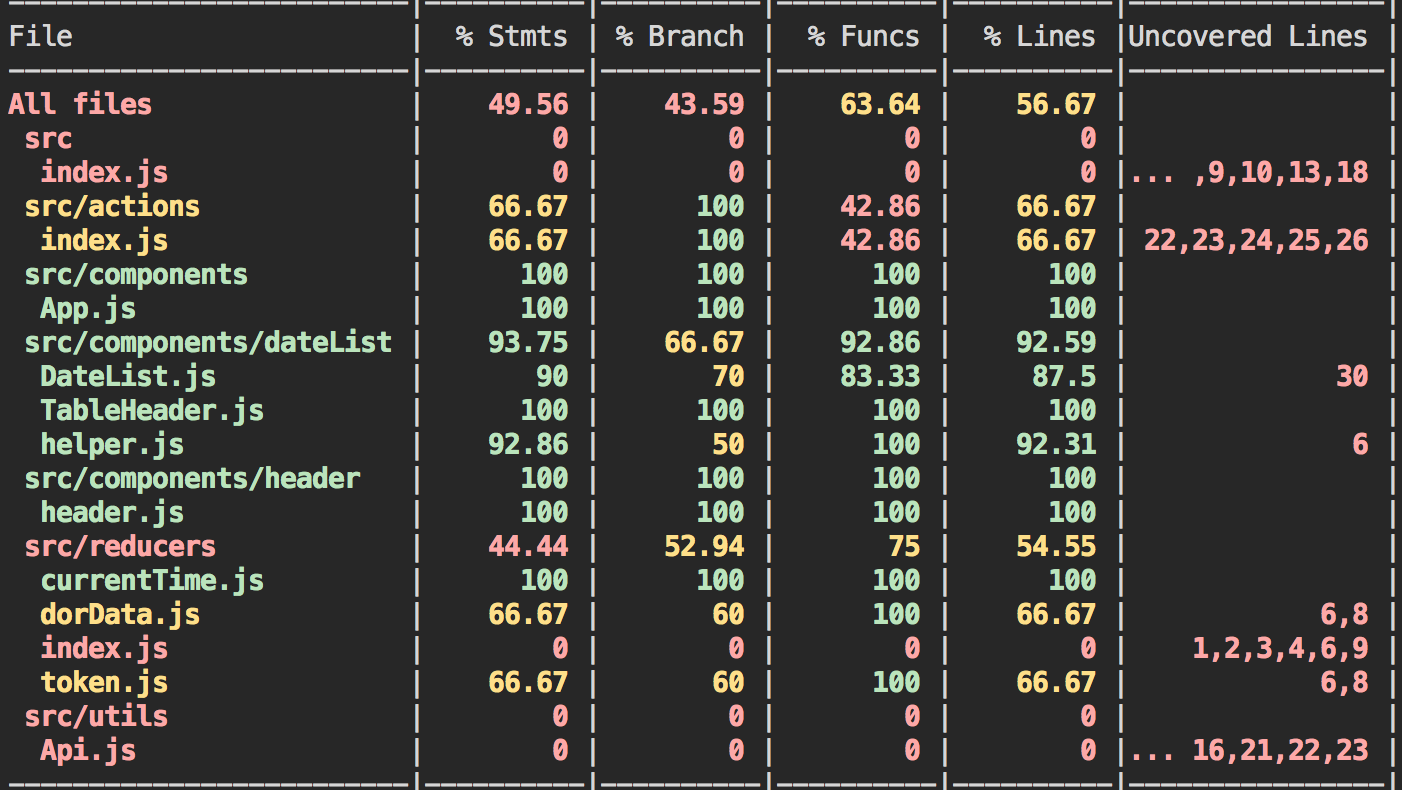
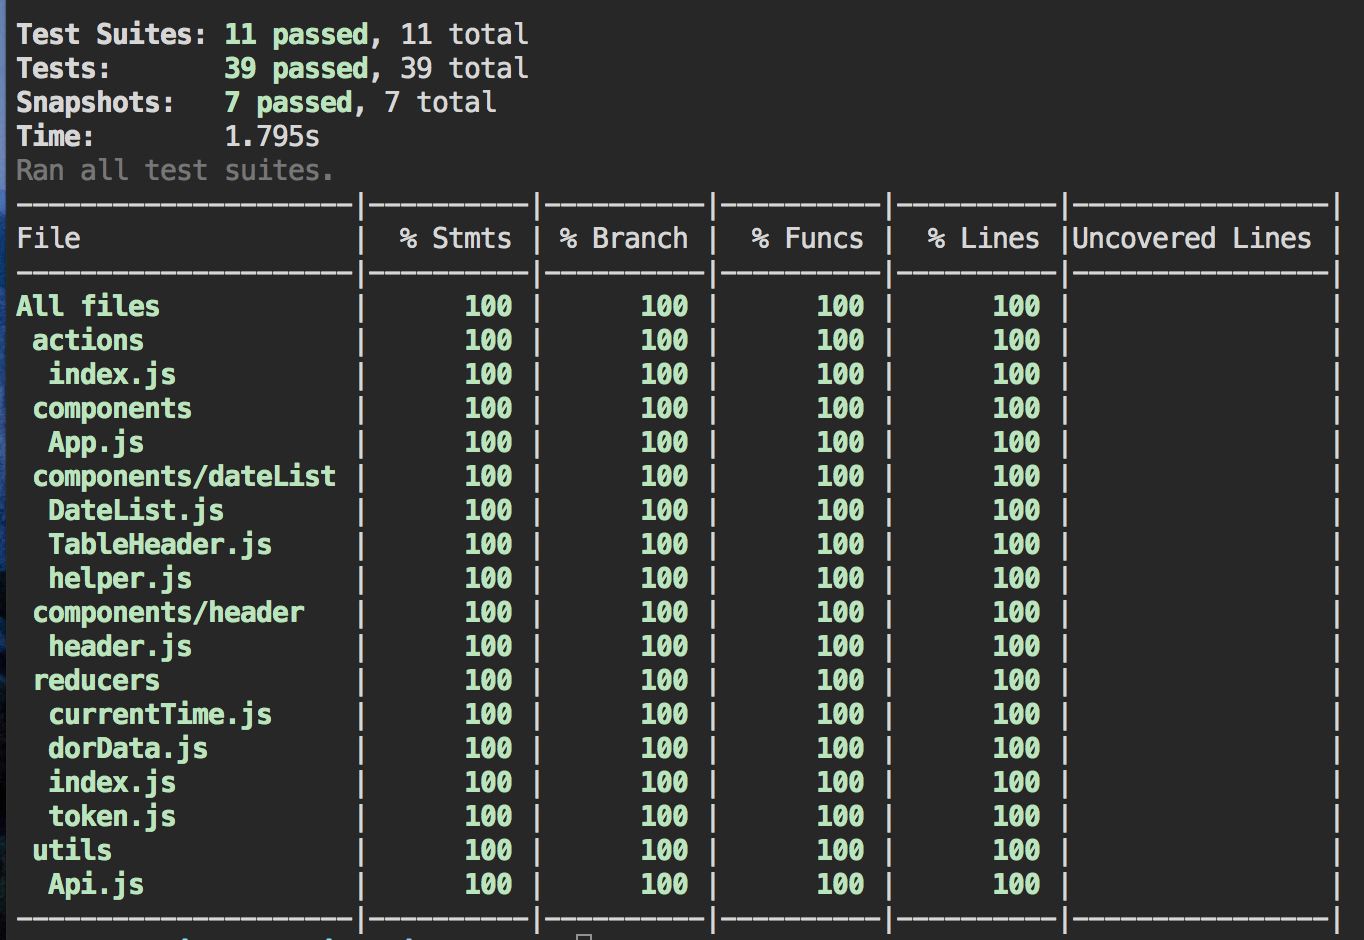
fix readme and helper.test.js

diff --git a/src/components/dateList/DateList.test.js b/src/components/dateList/DateList.test.js
@@ -1,13 +1,27 @@
 import React from 'react';
-import { shallow } from 'enzyme';
+import { shallow, mount } from 'enzyme';
 // import * as moment from 'moment';
 import toJson from 'enzyme-to-json';
 import { DateList, mapStateToProps, mapDispatchToProps } from './DateList';
+import { Provider } from 'react-redux';
+import { createStore } from 'redux';
+import reducers from '../../reducers';
 
 describe('DateList Component', () => {
   it('should render without any props defined', () => {
     const component = shallow(<DateList />);
     expect(toJson(component)).toMatchSnapshot();
+  });
+
+  it('test componentDidMount', () => {
+    const store = createStore(reducers);
+    const getAllDate = jest.fn();
+
+    mount(<Provider store={store}>
+      <DateList getAllDate={getAllDate} />
+    </Provider>);
+
+    expect(getAllDate).toHaveBeenCalled();
   });
 
   it('should render with props passed in', () => {
@@ -66,6 +80,27 @@ describe('DateList Component', () => {
       max: -Infinity,
       currentTime: '2017-09-09',
       status: 'FULFILLED',
+    };
+    expect(mapStateToProps(state)).toEqual(expected);
+  });
+  it('mapStateToProps default data', () => {
+    const state = {
+      dorData: {
+        myData: null,
+      },
+      token: {
+        myToken: 'abcedefgg',
+        status: 'PENDING',
+      },
+      currentTime: {
+        time: '2017-09-09',
+      },
+    };
+    const expected = {
+      in_counts: [ ],
+      max: 0,
+      currentTime: '2017-09-09',
+      status: 'PENDING',
     };
     expect(mapStateToProps(state)).toEqual(expected);
   });

diff --git a/src/utils/Api.test.js b/src/utils/Api.test.js
@@ -1,0 +1,42 @@
+import axios from 'axios';
+import MockAdapter from 'axios-mock-adapter';
+import * as Api from './Api.js';
+
+describe('Api', () => {
+  it('returns data when axiostoken is called', done => {
+    const API_URL = 'http://api.getdor.com/v1/tokens';
+    const body = {
+      refresh_token: 'wSGgSqmSDKS4YPfMSHZ4YyiOpiNv'
+    };
+
+    const mock = new MockAdapter(axios);
+    const data = 'abcdefgh'
+
+    mock.onPost(API_URL, body).reply(200, data);
+
+    Api.axiosToken().then(response => {
+      expect(response.data).toEqual(data);
+      done();
+    })
+  });
+
+  it('returns data when axiosData is called', done => {
+    const token = 'abcdefgh';
+    const API_URL = 'http://api.getdor.com/v1/teams/4/stores/4/days';
+    const config = {
+      headers: {
+        Authorization: `Bearer ${token}`,
+      },
+    };
+    const result = [{id: 1}, {id:2}];
+    const mock = new MockAdapter(axios);
+
+    mock.onGet(API_URL, config).reply(200, [{id: 1},{id:2}]);
+
+    Api.axiosData().then(response => {
+      expect(response.data).toEqual(result);
+      done();
+    });
+  });
+
+});

diff --git a/src/components/dateList/helper.test.js b/src/components/dateList/helper.test.js
@@ -1,0 +1,40 @@
+import {calculateMax} from './helper';
+import {sortDate} from './helper';
+import {dayOfWeek} from './helper';
+
+describe('test helper functions', () => {
+  it('test calculateMax', () => {
+    expect(calculateMax([
+      {
+        in_count: 50
+      }, {
+        in_count: 90
+      }
+    ])).toBe(90);
+  });
+
+  it('test sortDate', () => {
+    const array = {
+      data: [
+        {
+          date: '2017-10-05'
+        }, {
+          date: '2017-10-04'
+        }
+      ]
+    }
+    expect(sortDate(array)).toEqual([
+      {
+        date: '2017-10-05'
+      }, {
+        date: '2017-10-04'
+      }
+    ])
+  });
+
+  it('test dayOfWeek', () => {
+    const number = 3;
+    expect(dayOfWeek(number)).toBe('WED');
+  });
+
+});

diff --git a/README.md b/README.md
@@ -23,9 +23,12 @@ To utilize this repo, please do the following:
 I screenshotted the testing coverage:
 
 Test Coverage Details:
-- Test coverage for components is **97%**
-- Test coverage for reducers is **78%**
-- Test coverage for actions is **67%**
+- Test coverage for components is **100%**
+- Test coverage for reducers is **100%**
+- Test coverage for actions is **100%%**
+- Test coverage for utils/Api is **100%**
+
+NOTE: I ignore src/index.js when running the coverage. I don't need to test React Dom Render and the store since they were tested by the creators.
 
 1. run ```npm test``` to run all the tests without the test coverage interface
 2. run ```npm test -- --coverage``` to run all the tests with the test coverage interface
@@ -48,16 +51,7 @@ I used redux-promise-middleware to render the loading screen.
 I used redux-thunk-middleware to ensure the flow of actions.
 
 ## Code Refactor => Testing
-
-In the beginning, I write my actions with Api calls within them. They work perfectly fine. In order to test asynchronous call actions, I need find ways to test actions while without making network requests.
-
-### Before Refactor ###
-You can see that the actions ```retrieveToken``` and ```loadAllData``` have network requests(API_URL) inside. Then I use the Thunk-Middleware to ensure the flow of actions is correct.
-
-<img src="./src/assets/before_refactor.png" width="600"/>
-
-### After Refactor ###
-You can see that the actions take in an Api Class(it lives with in the src/utils/Api.js directory). In this case, I utilized the extraArgument parameter inside the Thunk-Middleware and set my Api object as the extraArgument.
+You can see that the actions take in an Api Object(it lives with in the src/utils/Api.js directory). In this case, I utilized the extraArgument parameter inside the Thunk-Middleware and set my Api object as the extraArgument.
 
 ```Javascript
 const store = createStore(reducer,
